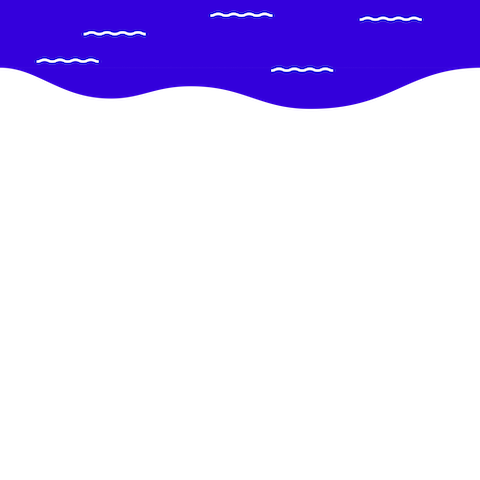
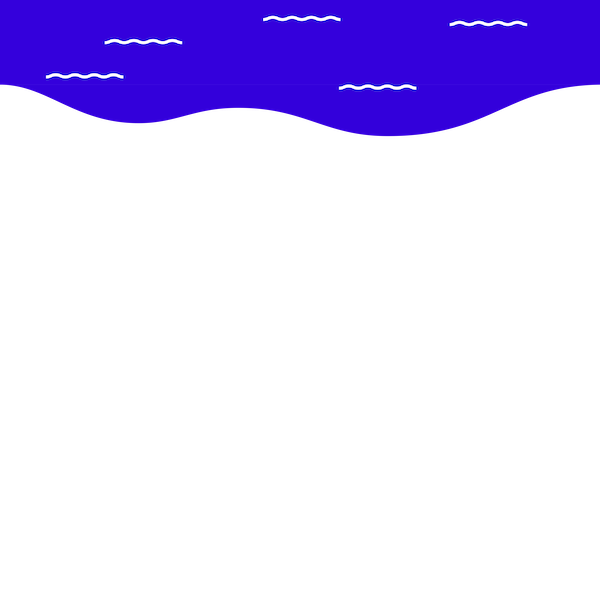
larger canvas

diff --git a/dist/main.js b/dist/main.js
@@ -1,2 +1,2 @@
-!function(t){var e={};function n(i){if(e[i])return e[i].exports;var s=e[i]={i:i,l:!1,exports:{}};return t[i].call(s.exports,s,s.exports,n),s.l=!0,s.exports}n.m=t,n.c=e,n.d=function(t,e,i){n.o(t,e)||Object.defineProperty(t,e,{enumerable:!0,get:i})},n.r=function(t){"undefined"!=typeof Symbol&&Symbol.toStringTag&&Object.defineProperty(t,Symbol.toStringTag,{value:"Module"}),Object.defineProperty(t,"__esModule",{value:!0})},n.t=function(t,e){if(1&e&&(t=n(t)),8&e)return t;if(4&e&&"object"==typeof t&&t&&t.__esModule)return t;var i=Object.create(null);if(n.r(i),Object.defineProperty(i,"default",{enumerable:!0,value:t}),2&e&&"string"!=typeof t)for(var s in t)n.d(i,s,function(e){return t[e]}.bind(null,s));return i},n.n=function(t){var e=t&&t.__esModule?function(){return t.default}:function(){return t};return n.d(e,"a",e),e},n.o=function(t,e){return Object.prototype.hasOwnProperty.call(t,e)},n.p="/dist/",n(n.s=2)}([function(t,e,n){},function(t,e,n){},function(t,e,n){"use strict";function i(t,e){for(var n=0;n<e.length;n++){var i=e[n];i.enumerable=i.enumerable||!1,i.configurable=!0,"value"in i&&(i.writable=!0),Object.defineProperty(t,i.key,i)}}n.r(e);var s=function(){function t(e,n){!function(t,e){if(!(t instanceof e))throw new TypeError("Cannot call a class as a function")}(this,t),this.ctx=e,this.canvas=n,this.pos=300,this.posX=100,this.draw=this.draw.bind(this),this.al=new Image,this.al.src="./src/images/al-web.png",this.alLife=new Image(30,30),this.alLife.src="./src/images/al-web.png",this.speed=0,this.speedX=0,this.maxHeight=100,this.minHeight=440,this.handleDown=this.handleDown.bind(this),this.keyUp=this.keyUp.bind(this),document.addEventListener("keydown",this.handleDown),document.addEventListener("touchstart",this.handleDown,{passive:!1}),document.addEventListener("keyup",this.keyUp),document.addEventListener("touchend",this.keyUp)}var e,n,s;return e=t,(n=[{key:"handleDown",value:function(t){var e;38!==(e="touchstart"===t.type?this.getTouchPos(this.canvas,t):t.keyCode)&&40!==e&&37!==e&&39!==e||(t.preventDefault(),this.move(e))}},{key:"keyUp",value:function(){this.al.src="./src/images/al-web.png",this.speed=0,this.speedX=0}},{key:"getTouchPos",value:function(t,e){var n=t.getBoundingClientRect();return e.targetTouches[0].clientX,n.left,e.targetTouches[0].clientY-n.top>this.pos?40:38}},{key:"draw",value:function(t,e){var n=this.pos===this.maxHeight&&-5===this.speed,i=this.pos===this.minHeight&&5===this.speed;n||i||(this.pos+=this.speed),this.ctx.drawImage(this.al,this.posX,this.pos),this.posX+=this.speedX;for(var s=0;s<e;s++)this.ctx.drawImage(this.alLife,25*(s+1)-15,50,20,12)}},{key:"move",value:function(t){switch(t){case 40:this.al.src="./src/images/al-down.png",this.speed=5;break;case 38:this.al.src="./src/images/al-up.png",this.speed=-5;break;case 37:this.al.src="./src/images/al-left.png",this.speedX=-5;break;case 39:this.al.src="./src/images/al-web.png",this.speedX=5}}}])&&i(e.prototype,n),s&&i(e,s),t}();function a(t,e){for(var n=0;n<e.length;n++){var i=e[n];i.enumerable=i.enumerable||!1,i.configurable=!0,"value"in i&&(i.writable=!0),Object.defineProperty(t,i.key,i)}}var r=function(){function t(){!function(t,e){if(!(t instanceof e))throw new TypeError("Cannot call a class as a function")}(this,t),this.posX=800,this.img=new Image,this.y=Math.floor(350*Math.random())+100,this.hit=!1}var e,n,i;return e=t,(n=[{key:"draw",value:function(t,e){t.drawImage(this.img,this.posX-=e,this.y)}},{key:"drawOne",value:function(t,e,n,i){var s=new Image;s.src="./src/images/".concat(i,".png"),s.addEventListener("load",(function(){t.drawImage(s,e,n)}))}}])&&a(e.prototype,n),i&&a(e,i),t}();function o(t){return(o="function"==typeof Symbol&&"symbol"==typeof Symbol.iterator?function(t){return typeof t}:function(t){return t&&"function"==typeof Symbol&&t.constructor===Symbol&&t!==Symbol.prototype?"symbol":typeof t})(t)}function c(t,e){return!e||"object"!==o(e)&&"function"!=typeof e?function(t){if(void 0===t)throw new ReferenceError("this hasn't been initialised - super() hasn't been called");return t}(t):e}function h(t){return(h=Object.setPrototypeOf?Object.getPrototypeOf:function(t){return t.__proto__||Object.getPrototypeOf(t)})(t)}function l(t,e){return(l=Object.setPrototypeOf||function(t,e){return t.__proto__=e,t})(t,e)}var u=["seal","fire-pit","person"],d=function(t){function e(){var t;!function(t,e){if(!(t instanceof e))throw new TypeError("Cannot call a class as a function")}(this,e),t=c(this,h(e).call(this));var n=Math.floor(Math.random()*u.length);return t.type=u[n],t.img.src="./src/images/".concat(t.type,".png"),t}return function(t,e){if("function"!=typeof e&&null!==e)throw new TypeError("Super expression must either be null or a function");t.prototype=Object.create(e&&e.prototype,{constructor:{value:t,writable:!0,configurable:!0}}),e&&l(t,e)}(e,t),e}(r);function f(t){return(f="function"==typeof Symbol&&"symbol"==typeof Symbol.iterator?function(t){return typeof t}:function(t){return t&&"function"==typeof Symbol&&t.constructor===Symbol&&t!==Symbol.prototype?"symbol":typeof t})(t)}function p(t,e){return!e||"object"!==f(e)&&"function"!=typeof e?function(t){if(void 0===t)throw new ReferenceError("this hasn't been initialised - super() hasn't been called");return t}(t):e}function v(t){return(v=Object.setPrototypeOf?Object.getPrototypeOf:function(t){return t.__proto__||Object.getPrototypeOf(t)})(t)}function y(t,e){return(y=Object.setPrototypeOf||function(t,e){return t.__proto__=e,t})(t,e)}var b=["bottle","bag","beach-ball"],g=function(t){function e(){var t;!function(t,e){if(!(t instanceof e))throw new TypeError("Cannot call a class as a function")}(this,e),t=p(this,v(e).call(this));var n=Math.floor(Math.random()*b.length);return t.type=b[n],t.img.src="./src/images/".concat(t.type,".png"),t}return function(t,e){if("function"!=typeof e&&null!==e)throw new TypeError("Super expression must either be null or a function");t.prototype=Object.create(e&&e.prototype,{constructor:{value:t,writable:!0,configurable:!0}}),e&&y(t,e)}(e,t),e}(r);function w(t,e){for(var n=0;n<e.length;n++){var i=e[n];i.enumerable=i.enumerable||!1,i.configurable=!0,"value"in i&&(i.writable=!0),Object.defineProperty(t,i.key,i)}}var m=function(){function t(e,n){!function(t,e){if(!(t instanceof e))throw new TypeError("Cannot call a class as a function")}(this,t),this.cnvs=e,this.ctx=n}var e,n,i;return e=t,(n=[{key:"draw",value:function(t){var e=this,n=new d,i=new d,s=new d,a=new g,r=new g,o=new g;setTimeout((function(){e.ctx.textAlign="center",e.ctx.fillStyle="#3400cd",e.ctx.font="30px Arial",e.ctx.beginPath(),e.ctx.rect(e.cnvs.width/2-50,140,100,40),e.ctx.strokeRect(e.cnvs.width/2-50,140,100,40),e.ctx.fillRect(e.cnvs.width/2-50,140,100,40),e.ctx.stroke(),e.ctx.fillStyle="#ffdc93",e.ctx.fillText("Start!",e.cnvs.width/2,170),e.ctx.fillStyle="#3400cd",e.ctx.font="20px Arial",e.ctx.fillText("Use the up and down arrow keys to help",e.cnvs.width/2,250),e.ctx.fillText("the albatross avoid obstacles and tidy up the beach.",e.cnvs.width/2,280),e.ctx.fillText("AVOID",225,340),n.drawOne(e.ctx,170,350,"seal"),i.drawOne(e.ctx,210,350,"fire-pit"),s.drawOne(e.ctx,250,350,"person"),e.ctx.fillText("COLLECT",575,340),a.drawOne(e.ctx,520,350,"bottle"),r.drawOne(e.ctx,560,350,"bag"),o.drawOne(e.ctx,600,350,"beach-ball"),e.ctx.font="20px Arial",e.ctx.textAlign="center",e.ctx.fillText("By Shersheial Borisute",e.cnvs.width/2,450)}),500)}}])&&w(e.prototype,n),i&&w(e,i),t}();function x(t,e){for(var n=0;n<e.length;n++){var i=e[n];i.enumerable=i.enumerable||!1,i.configurable=!0,"value"in i&&(i.writable=!0),Object.defineProperty(t,i.key,i)}}var k=function(){function t(e,n,i){!function(t,e){if(!(t instanceof e))throw new TypeError("Cannot call a class as a function")}(this,t),this.bgPos=0,this.canvas=e,this.ctx=n,this.image=i,this.draw=this.draw.bind(this),this.startScreen=new m(this.canvas,this.ctx),this.started=!1}var e,n,i;return e=t,(n=[{key:"draw",value:function(t){var e=this,n=new Image(480,480);n.src="./src/images/".concat(this.image,".png"),n.addEventListener("load",(function(){e.ctx.clearRect(0,0,e.canvas.width,e.canvas.height);var i=e.ctx.createPattern(n,"repeat");e.ctx.fillStyle=i,e.ctx.translate(-e.bgPos,0),e.ctx.fillRect(e.bgPos,0,e.canvas.width,e.canvas.height),e.ctx.translate(e.bgPos,0),e.bgPos+=t,"water"===e.image&&e.started,"sand"!==e.image||e.started||(e.started=!0,e.startScreen.draw())}),!1)}},{key:"showTitle",value:function(){this.ctx.font="30px Arial",this.ctx.textAlign="center",this.ctx.fillStyle="#ffdc93",this.ctx.fillText("Tidy Albatross",this.canvas.width/2,30)}}])&&x(e.prototype,n),i&&x(e,i),t}();function O(t,e){for(var n=0;n<e.length;n++){var i=e[n];i.enumerable=i.enumerable||!1,i.configurable=!0,"value"in i&&(i.writable=!0),Object.defineProperty(t,i.key,i)}}var S=function(){function t(){!function(t,e){if(!(t instanceof e))throw new TypeError("Cannot call a class as a function")}(this,t),this.width=800,this.height=480,this.canvasSand=document.getElementById("canvas-sand"),this.canvasWater=document.getElementById("canvas-water"),this.canvasSand.width=800,this.canvasSand.height=480,this.canvasWater.width=800,this.canvasWater.height=480,this.ctxSand=this.canvasSand.getContext("2d"),this.ctxWater=this.canvasWater.getContext("2d"),this.backgroundWater=new k(this.canvasWater,this.ctxWater,"water"),this.backgroundSand=new k(this.canvasSand,this.ctxSand,"sand"),this.draw=this.draw.bind(this)}var e,n,i;return e=t,(n=[{key:"init",value:function(t){this.backgroundWater.started=!1,this.backgroundSand.started=!1,this.draw(t)}},{key:"draw",value:function(t){this.backgroundWater.draw(t),this.backgroundSand.draw(t)}}])&&O(e.prototype,n),i&&O(e,i),t}();function P(t,e){for(var n=0;n<e.length;n++){var i=e[n];i.enumerable=i.enumerable||!1,i.configurable=!0,"value"in i&&(i.writable=!0),Object.defineProperty(t,i.key,i)}}var T=function(){function t(e,n){!function(t,e){if(!(t instanceof e))throw new TypeError("Cannot call a class as a function")}(this,t),this.ctx=e,this.pos=n,this.db=firebase.firestore()}var e,n,i;return e=t,(n=[{key:"draw",value:function(){}},{key:"store",value:function(t,e){this.db.collection(t).add(e).then((function(t){console.log("Document written with ID: ",t.id)})).catch((function(t){console.error("Error adding document: ",t)}))}}])&&P(e.prototype,n),i&&P(e,i),t}();function E(t,e){for(var n=0;n<e.length;n++){var i=e[n];i.enumerable=i.enumerable||!1,i.configurable=!0,"value"in i&&(i.writable=!0),Object.defineProperty(t,i.key,i)}}var j=function(){function t(){!function(t,e){if(!(t instanceof e))throw new TypeError("Cannot call a class as a function")}(this,t),this.canvas=document.getElementById("canvas-game"),this.canvas.width=800,this.canvas.height=480,this.animFrame=null,this.ctx=this.canvas.getContext("2d"),this.trash=[],this.obstacles=[],this.albatross=new s(this.ctx,this.canvas),this.draw=this.draw.bind(this),this.beach=new S,this.addObstacle=this.addObstacle.bind(this),this.addTrash=this.addTrash.bind(this),this.handleStart=this.handleStart.bind(this),this.onVisibilityChange=this.onVisibilityChange.bind(this),this.ctx.font="30px Arial",this.score=0,this.totalPoints=0,this.gameIsActive=!1,this.lives=5,this.maxSpeed=9,this.timeout=120,this.counter=-1,this.speed=2,this.bird=new this.sound("./src/audio/bird.mp3"),this.gamePause=this.gamePause.bind(this),document.addEventListener("visibilitychange",this.onVisibilityChange),this.points=new T}var e,n,i;return e=t,(n=[{key:"init",value:function(){this.beach.init(this.speed),this.canvas.addEventListener("click",this.handleStart)}},{key:"handleStart",value:function(t){var e=this.getClickPos(this.canvas,t),n=e.x,i=e.y,s=this.canvas.width/2-50;n>=s&&n<=100+s&&i>=140&&i<=180&&(this.gameIsActive=!0,this.canvas.removeEventListener("click",this.handleStart),this.draw())}},{key:"getClickPos",value:function(t,e){var n=t.getBoundingClientRect();return{x:e.clientX-n.left,y:e.clientY-n.top}}},{key:"addObstacle",value:function(){this.obstacles=this.obstacles.concat(new d)}},{key:"addTrash",value:function(){this.trash=this.trash.concat(new g)}},{key:"onVisibilityChange",value:function(t){"hidden"===document.visibilityState?this.gamePause("hide"):this.gamePause("show")}},{key:"draw",value:function(){if(this.gameIsActive)if(0===this.lives)this.ctx.clearRect(0,0,this.canvas.width,this.canvas.height),cancelAnimationFrame(this.animFrame),this.gameOver();else{this.ctx.clearRect(0,0,this.canvas.width,this.canvas.height),this.beach.draw(this.speed);var t={x:this.albatross.posX,y:this.albatross.pos};this.counter===this.timeout&&(this.addObstacle(),this.addTrash(),this.counter=-1),this.counter=this.counter+1,this.detectObstacles(t),this.detectTrash(t),this.albatross.draw(this.speed,this.lives),this.ctx.fillStyle="white",this.ctx.fillText("Score: ".concat(this.score),10,40),this.animFrame=requestAnimationFrame(this.draw)}}},{key:"detectTrash",value:function(t){var e=this;this.trash.forEach((function(n,i){n.posX<-30&&delete e.trash[i],t.y-n.y<30&&t.y-n.y>-30&&n.posX-t.x<=60&&n.posX-t.x>=-5?(e.score=e.score+1,e.score%5==0&&e.speed<=e.maxSpeed&&(e.speed=e.speed+e.speed/4,e.speed>e.maxSpeed&&(e.timeout=90)),delete e.trash[i]):n.draw(e.ctx,e.speed)})),this.trash=this.trash.filter((function(t){return t}))}},{key:"detectObstacles",value:function(t){var e=this;this.obstacles.forEach((function(n,i){n.posX<-30&&delete e.obstacles[i],n.draw(e.ctx,e.speed),t.y-n.y<30&&t.y-n.y>-30&&n.posX-t.x<=60&&n.posX-t.x>=-5&&!n.hit&&(n.hit=!0,e.lives=e.lives-1,setTimeout((function(){e.bird.play()}),0))})),this.obstacles=this.obstacles.filter((function(t){return t}))}},{key:"gameOver",value:function(){this.gameIsActive=!1,this.points.store("score",{name:"Ada",score:this.score}),this.trash=[],this.obstacles=[],this.ctx.fillStyle="#3400cd",this.ctx.textAlign="center",this.ctx.fillText("game over :(",this.canvas.width/2,130),this.ctx.textAlign="left",this.score=0,this.speed=1.5,this.totalPoints=0,this.lives=5,this.init()}},{key:"gamePause",value:function(t){this.gameIsActive="hide"!==t}},{key:"sound",value:function(t){var e=this;this.sound=document.createElement("audio"),this.sound.src=t,this.sound.setAttribute("preload","auto"),this.sound.setAttribute("controls","none"),this.sound.style.display="none",document.body.appendChild(this.sound),this.play=function(){return e.sound.play()},this.stop=function(){return e.sound.pause()}}}])&&E(e.prototype,n),i&&E(e,i),t}();n(0),n(1);document.addEventListener("DOMContentLoaded",(function(){(new j).init()}))}]);
+!function(t){var e={};function n(i){if(e[i])return e[i].exports;var s=e[i]={i:i,l:!1,exports:{}};return t[i].call(s.exports,s,s.exports,n),s.l=!0,s.exports}n.m=t,n.c=e,n.d=function(t,e,i){n.o(t,e)||Object.defineProperty(t,e,{enumerable:!0,get:i})},n.r=function(t){"undefined"!=typeof Symbol&&Symbol.toStringTag&&Object.defineProperty(t,Symbol.toStringTag,{value:"Module"}),Object.defineProperty(t,"__esModule",{value:!0})},n.t=function(t,e){if(1&e&&(t=n(t)),8&e)return t;if(4&e&&"object"==typeof t&&t&&t.__esModule)return t;var i=Object.create(null);if(n.r(i),Object.defineProperty(i,"default",{enumerable:!0,value:t}),2&e&&"string"!=typeof t)for(var s in t)n.d(i,s,function(e){return t[e]}.bind(null,s));return i},n.n=function(t){var e=t&&t.__esModule?function(){return t.default}:function(){return t};return n.d(e,"a",e),e},n.o=function(t,e){return Object.prototype.hasOwnProperty.call(t,e)},n.p="/dist/",n(n.s=2)}([function(t,e,n){},function(t,e,n){},function(t,e,n){"use strict";function i(t,e){for(var n=0;n<e.length;n++){var i=e[n];i.enumerable=i.enumerable||!1,i.configurable=!0,"value"in i&&(i.writable=!0),Object.defineProperty(t,i.key,i)}}n.r(e);var s=function(){function t(e,n){!function(t,e){if(!(t instanceof e))throw new TypeError("Cannot call a class as a function")}(this,t),this.ctx=e,this.canvas=n,this.pos=300,this.posX=100,this.draw=this.draw.bind(this),this.al=new Image,this.al.src="./src/images/large/al-web.png",this.alLife=new Image(30,30),this.alLife.src="./src/images/large/al-web.png",this.speed=0,this.speedX=0,this.maxHeight=100,this.minHeight=550,this.handleDown=this.handleDown.bind(this),this.keyUp=this.keyUp.bind(this),document.addEventListener("keydown",this.handleDown),document.addEventListener("touchstart",this.handleDown,{passive:!1}),document.addEventListener("keyup",this.keyUp),document.addEventListener("touchend",this.keyUp)}var e,n,s;return e=t,(n=[{key:"handleDown",value:function(t){var e;38!==(e="touchstart"===t.type?this.getTouchPos(this.canvas,t):t.keyCode)&&40!==e&&37!==e&&39!==e||(t.preventDefault(),this.move(e))}},{key:"keyUp",value:function(){this.al.src="./src/images/large/al-web.png",this.speed=0,this.speedX=0}},{key:"getTouchPos",value:function(t,e){var n=t.getBoundingClientRect();return e.targetTouches[0].clientX,n.left,e.targetTouches[0].clientY-n.top>this.pos?40:38}},{key:"draw",value:function(t,e){var n=this.pos===this.maxHeight&&-5===this.speed,i=this.pos===this.minHeight&&5===this.speed;n||i||(this.pos+=this.speed),this.ctx.drawImage(this.al,this.posX,this.pos),this.posX+=this.speedX;for(var s=0;s<e;s++)this.ctx.drawImage(this.alLife,25*(s+1)-15,50,20,12)}},{key:"move",value:function(t){switch(t){case 40:this.al.src="./src/images/large/al-down.png",this.speed=5;break;case 38:this.al.src="./src/images/large/al-up.png",this.speed=-5;break;case 37:this.al.src="./src/images/large/al-left.png",this.speedX=-5;break;case 39:this.al.src="./src/images/large/al-web.png",this.speedX=5}}}])&&i(e.prototype,n),s&&i(e,s),t}();function a(t,e){for(var n=0;n<e.length;n++){var i=e[n];i.enumerable=i.enumerable||!1,i.configurable=!0,"value"in i&&(i.writable=!0),Object.defineProperty(t,i.key,i)}}var r=function(){function t(){!function(t,e){if(!(t instanceof e))throw new TypeError("Cannot call a class as a function")}(this,t),this.posX=1e3,this.img=new Image,this.y=Math.floor(460*Math.random())+100,this.hit=!1}var e,n,i;return e=t,(n=[{key:"draw",value:function(t,e){t.drawImage(this.img,this.posX-=e,this.y,40,40)}},{key:"drawOne",value:function(t,e,n,i){var s=new Image(30,30);s.src="./src/images/large/".concat(i,".png"),s.addEventListener("load",(function(){t.drawImage(s,e,n,40,40)}))}}])&&a(e.prototype,n),i&&a(e,i),t}();function o(t){return(o="function"==typeof Symbol&&"symbol"==typeof Symbol.iterator?function(t){return typeof t}:function(t){return t&&"function"==typeof Symbol&&t.constructor===Symbol&&t!==Symbol.prototype?"symbol":typeof t})(t)}function c(t,e){return!e||"object"!==o(e)&&"function"!=typeof e?function(t){if(void 0===t)throw new ReferenceError("this hasn't been initialised - super() hasn't been called");return t}(t):e}function h(t){return(h=Object.setPrototypeOf?Object.getPrototypeOf:function(t){return t.__proto__||Object.getPrototypeOf(t)})(t)}function l(t,e){return(l=Object.setPrototypeOf||function(t,e){return t.__proto__=e,t})(t,e)}var u=["seal","fire-pit","person"],d=function(t){function e(){var t;!function(t,e){if(!(t instanceof e))throw new TypeError("Cannot call a class as a function")}(this,e),t=c(this,h(e).call(this));var n=Math.floor(Math.random()*u.length);return t.type=u[n],t.img.src="./src/images/large/".concat(t.type,".png"),t}return function(t,e){if("function"!=typeof e&&null!==e)throw new TypeError("Super expression must either be null or a function");t.prototype=Object.create(e&&e.prototype,{constructor:{value:t,writable:!0,configurable:!0}}),e&&l(t,e)}(e,t),e}(r);function f(t){return(f="function"==typeof Symbol&&"symbol"==typeof Symbol.iterator?function(t){return typeof t}:function(t){return t&&"function"==typeof Symbol&&t.constructor===Symbol&&t!==Symbol.prototype?"symbol":typeof t})(t)}function p(t,e){return!e||"object"!==f(e)&&"function"!=typeof e?function(t){if(void 0===t)throw new ReferenceError("this hasn't been initialised - super() hasn't been called");return t}(t):e}function v(t){return(v=Object.setPrototypeOf?Object.getPrototypeOf:function(t){return t.__proto__||Object.getPrototypeOf(t)})(t)}function y(t,e){return(y=Object.setPrototypeOf||function(t,e){return t.__proto__=e,t})(t,e)}var b=["bottle","bag","beach-ball"],g=function(t){function e(){var t;!function(t,e){if(!(t instanceof e))throw new TypeError("Cannot call a class as a function")}(this,e),t=p(this,v(e).call(this));var n=Math.floor(Math.random()*b.length);return t.type=b[n],t.img.src="./src/images/large/".concat(t.type,".png"),t}return function(t,e){if("function"!=typeof e&&null!==e)throw new TypeError("Super expression must either be null or a function");t.prototype=Object.create(e&&e.prototype,{constructor:{value:t,writable:!0,configurable:!0}}),e&&y(t,e)}(e,t),e}(r);function w(t,e){for(var n=0;n<e.length;n++){var i=e[n];i.enumerable=i.enumerable||!1,i.configurable=!0,"value"in i&&(i.writable=!0),Object.defineProperty(t,i.key,i)}}var m=function(){function t(e,n){!function(t,e){if(!(t instanceof e))throw new TypeError("Cannot call a class as a function")}(this,t),this.cnvs=e,this.ctx=n}var e,n,i;return e=t,(n=[{key:"draw",value:function(t){var e=this,n=new d,i=new d,s=new d,a=new g,r=new g,o=new g;setTimeout((function(){e.ctx.textAlign="center",e.ctx.fillStyle="#3400cd",e.ctx.font="30px Arial",e.ctx.beginPath(),e.ctx.rect(e.cnvs.width/2-50,140,100,40),e.ctx.strokeRect(e.cnvs.width/2-50,140,100,40),e.ctx.fillRect(e.cnvs.width/2-50,140,100,40),e.ctx.stroke(),e.ctx.fillStyle="#ffdc93",e.ctx.fillText("Start!",e.cnvs.width/2,170),e.ctx.fillStyle="#3400cd",e.ctx.font="24px Arial",e.ctx.fillText("Use your arrow keys to help",e.cnvs.width/2,280),e.ctx.fillText("the albatross avoid obstacles",e.cnvs.width/2,310),e.ctx.fillText("and tidy up the beach.",e.cnvs.width/2,340),e.ctx.strokeStyle="#3400cd",e.ctx.strokeRect(200,400,150,80),e.ctx.fillStyle="#3400cd",e.ctx.font="bold 20px Arial",e.ctx.fillText("Avoid",274,424),n.drawOne(e.ctx,210,434,"seal"),i.drawOne(e.ctx,255,434,"fire-pit"),s.drawOne(e.ctx,300,434,"person"),e.ctx.strokeStyle="#3400cd",e.ctx.strokeRect(660,400,150,80),e.ctx.fillStyle="#3400cd",e.ctx.font="bold 20px Arial",e.ctx.fillText("Collect",734,424),a.drawOne(e.ctx,670,434,"bottle"),r.drawOne(e.ctx,715,434,"bag"),o.drawOne(e.ctx,760,434,"beach-ball")}),500)}}])&&w(e.prototype,n),i&&w(e,i),t}();function x(t,e){for(var n=0;n<e.length;n++){var i=e[n];i.enumerable=i.enumerable||!1,i.configurable=!0,"value"in i&&(i.writable=!0),Object.defineProperty(t,i.key,i)}}var k=function(){function t(e,n,i){!function(t,e){if(!(t instanceof e))throw new TypeError("Cannot call a class as a function")}(this,t),this.bgPos=0,this.canvas=e,this.ctx=n,this.image=i,this.draw=this.draw.bind(this),this.startScreen=new m(this.canvas,this.ctx),this.started=!1}var e,n,i;return e=t,(n=[{key:"draw",value:function(t){var e=this,n=new Image(600,600);n.src="./src/images/".concat(this.image,".png"),n.addEventListener("load",(function(){e.ctx.clearRect(0,0,e.canvas.width,e.canvas.height);var i=e.ctx.createPattern(n,"repeat");e.ctx.fillStyle=i,e.ctx.translate(-e.bgPos,0),e.ctx.fillRect(e.bgPos,0,e.canvas.width,e.canvas.height),e.ctx.translate(e.bgPos,0),e.bgPos+=t,"water"===e.image&&e.started,"sand"!==e.image||e.started||(e.started=!0,e.startScreen.draw())}),!1)}},{key:"showTitle",value:function(){this.ctx.font="30px Arial",this.ctx.textAlign="center",this.ctx.fillStyle="#ffdc93",this.ctx.fillText("Tidy Albatross",this.canvas.width/2,30)}}])&&x(e.prototype,n),i&&x(e,i),t}();function S(t,e){for(var n=0;n<e.length;n++){var i=e[n];i.enumerable=i.enumerable||!1,i.configurable=!0,"value"in i&&(i.writable=!0),Object.defineProperty(t,i.key,i)}}var O=function(){function t(){!function(t,e){if(!(t instanceof e))throw new TypeError("Cannot call a class as a function")}(this,t),this.width=1e3,this.height=600,this.canvasSand=document.getElementById("canvas-sand"),this.canvasWater=document.getElementById("canvas-water"),this.canvasSand.width=this.width,this.canvasSand.height=this.height,this.canvasWater.width=this.width,this.canvasWater.height=this.height,this.ctxSand=this.canvasSand.getContext("2d"),this.ctxWater=this.canvasWater.getContext("2d"),this.backgroundWater=new k(this.canvasWater,this.ctxWater,"water"),this.backgroundSand=new k(this.canvasSand,this.ctxSand,"sand"),this.draw=this.draw.bind(this)}var e,n,i;return e=t,(n=[{key:"init",value:function(t){this.backgroundWater.started=!1,this.backgroundSand.started=!1,this.draw(t)}},{key:"draw",value:function(t){this.backgroundWater.draw(t),this.backgroundSand.draw(t)}}])&&S(e.prototype,n),i&&S(e,i),t}();function P(t,e){for(var n=0;n<e.length;n++){var i=e[n];i.enumerable=i.enumerable||!1,i.configurable=!0,"value"in i&&(i.writable=!0),Object.defineProperty(t,i.key,i)}}var T=function(){function t(e,n){!function(t,e){if(!(t instanceof e))throw new TypeError("Cannot call a class as a function")}(this,t),this.ctx=e,this.pos=n,this.db=firebase.firestore()}var e,n,i;return e=t,(n=[{key:"draw",value:function(){}},{key:"store",value:function(t,e){this.db.collection(t).add(e).then((function(t){console.log("Document written with ID: ",t.id)})).catch((function(t){console.error("Error adding document: ",t)}))}}])&&P(e.prototype,n),i&&P(e,i),t}();function E(t,e){for(var n=0;n<e.length;n++){var i=e[n];i.enumerable=i.enumerable||!1,i.configurable=!0,"value"in i&&(i.writable=!0),Object.defineProperty(t,i.key,i)}}var j=function(){function t(){!function(t,e){if(!(t instanceof e))throw new TypeError("Cannot call a class as a function")}(this,t),this.canvas=document.getElementById("canvas-game"),this.canvas.width=1e3,this.canvas.height=600,this.animFrame=null,this.ctx=this.canvas.getContext("2d"),this.trash=[],this.obstacles=[],this.albatross=new s(this.ctx,this.canvas),this.draw=this.draw.bind(this),this.beach=new O,this.addObstacle=this.addObstacle.bind(this),this.addTrash=this.addTrash.bind(this),this.handleStart=this.handleStart.bind(this),this.onVisibilityChange=this.onVisibilityChange.bind(this),this.ctx.font="30px Arial",this.score=0,this.totalPoints=0,this.gameIsActive=!1,this.lives=5,this.maxSpeed=9,this.timeout=120,this.counter=-1,this.speed=2,this.bird=new this.sound("./src/audio/bird.mp3"),this.gamePause=this.gamePause.bind(this),document.addEventListener("visibilitychange",this.onVisibilityChange),this.points=new T}var e,n,i;return e=t,(n=[{key:"init",value:function(){this.beach.init(this.speed),this.canvas.addEventListener("click",this.handleStart)}},{key:"handleStart",value:function(t){var e=this.getClickPos(this.canvas,t),n=e.x,i=e.y,s=this.canvas.width/2-50;n>=s&&n<=100+s&&i>=140&&i<=180&&(this.gameIsActive=!0,this.canvas.removeEventListener("click",this.handleStart),this.draw())}},{key:"getClickPos",value:function(t,e){var n=t.getBoundingClientRect();return{x:e.clientX-n.left,y:e.clientY-n.top}}},{key:"addObstacle",value:function(){this.obstacles=this.obstacles.concat(new d)}},{key:"addTrash",value:function(){this.trash=this.trash.concat(new g)}},{key:"onVisibilityChange",value:function(t){"hidden"===document.visibilityState?this.gamePause("hide"):this.gamePause("show")}},{key:"draw",value:function(){if(this.gameIsActive)if(0===this.lives)this.ctx.clearRect(0,0,this.canvas.width,this.canvas.height),cancelAnimationFrame(this.animFrame),this.gameOver();else{this.ctx.clearRect(0,0,this.canvas.width,this.canvas.height),this.beach.draw(this.speed);var t={x:this.albatross.posX,y:this.albatross.pos};this.counter===this.timeout&&(this.addObstacle(),this.addTrash(),this.counter=-1),this.counter=this.counter+1,this.detectObstacles(t),this.detectTrash(t),this.albatross.draw(this.speed,this.lives),this.ctx.fillStyle="white",this.ctx.fillText("Score: ".concat(this.score),10,40),this.animFrame=requestAnimationFrame(this.draw)}}},{key:"detectTrash",value:function(t){var e=this;this.trash.forEach((function(n,i){n.posX<-30&&delete e.trash[i],t.y-n.y<30&&t.y-n.y>-30&&n.posX-t.x<=60&&n.posX-t.x>=-5?(e.score=e.score+1,e.score%5==0&&e.speed<=e.maxSpeed&&(e.speed=e.speed+e.speed/4,e.speed>e.maxSpeed&&(e.timeout=90)),delete e.trash[i]):n.draw(e.ctx,e.speed)})),this.trash=this.trash.filter((function(t){return t}))}},{key:"detectObstacles",value:function(t){var e=this;this.obstacles.forEach((function(n,i){n.posX<-30&&delete e.obstacles[i],n.draw(e.ctx,e.speed),t.y-n.y<30&&t.y-n.y>-30&&n.posX-t.x<=60&&n.posX-t.x>=-5&&!n.hit&&(n.hit=!0,e.lives=e.lives-1,setTimeout((function(){e.bird.play()}),0))})),this.obstacles=this.obstacles.filter((function(t){return t}))}},{key:"gameOver",value:function(){this.gameIsActive=!1,this.points.store("score",{name:"Ada",score:this.score}),this.trash=[],this.obstacles=[],this.ctx.fillStyle="#3400cd",this.ctx.textAlign="center",this.ctx.fillText("game over :(",this.canvas.width/2,130),this.ctx.textAlign="left",this.score=0,this.speed=1.5,this.totalPoints=0,this.lives=5,this.init()}},{key:"gamePause",value:function(t){this.gameIsActive="hide"!==t}},{key:"sound",value:function(t){var e=this;this.sound=document.createElement("audio"),this.sound.src=t,this.sound.setAttribute("preload","auto"),this.sound.setAttribute("controls","none"),this.sound.style.display="none",document.body.appendChild(this.sound),this.play=function(){return e.sound.play()},this.stop=function(){return e.sound.pause()}}}])&&E(e.prototype,n),i&&E(e,i),t}();n(0),n(1);document.addEventListener("DOMContentLoaded",(function(){(new j).init()}))}]);
 //# sourceMappingURL=main.js.map

diff --git a/src/scripts/start_screen.js b/src/scripts/start_screen.js
@@ -36,28 +36,37 @@ export default class StartScreen {
       this.ctx.fillText('Start!', this.cnvs.width / 2, 170);
 
       this.ctx.fillStyle = "#3400cd";
-      this.ctx.font = "20px Arial";
-      this.ctx.fillText('Use the up and down arrow keys to help', this.cnvs.width / 2, 250);
-      this.ctx.fillText('the albatross avoid obstacles and tidy up the beach.', this.cnvs.width / 2, 330 - 50);
+      this.ctx.font = "24px Arial";
+      this.ctx.fillText('Use your arrow keys to help', this.cnvs.width / 2, 280);
+      this.ctx.fillText('the albatross avoid obstacles', this.cnvs.width / 2, 310);
+      this.ctx.fillText('and tidy up the beach.', this.cnvs.width / 2, 340);
+
+
       // avoid
-      this.ctx.fillText('AVOID', 225, 390 - 50);
+      this.ctx.strokeStyle = "#3400cd";
+      this.ctx.strokeRect(200, 400, 150, 80);
+
+      this.ctx.fillStyle = "#3400cd";
+      this.ctx.font = "bold 20px Arial";
+      this.ctx.fillText('Avoid', 274, 424);
   
-      seal.drawOne(this.ctx, 170, 400 - 50, 'seal');
-      firePit.drawOne(this.ctx, 210, 400 - 50, 'fire-pit');
-      person.drawOne(this.ctx, 250, 400 - 50, 'person');
+      seal.drawOne(this.ctx, 210, 434, 'seal');
+      firePit.drawOne(this.ctx, 255, 434, 'fire-pit');
+      person.drawOne(this.ctx, 300, 434, 'person');
   
   
       // pick up
-      this.ctx.fillText('COLLECT', 575, 340);
+
+      this.ctx.strokeStyle = "#3400cd";
+      this.ctx.strokeRect(660, 400, 150, 80);
+
+      this.ctx.fillStyle = "#3400cd";
+      this.ctx.font = "bold 20px Arial";
+      this.ctx.fillText('Collect', 734, 424);
   
-      bottle.drawOne(this.ctx, 520, 350, 'bottle');
-      bag.drawOne(this.ctx, 560, 350, 'bag');
-      beachBall.drawOne(this.ctx, 600, 350, 'beach-ball');
-
-
-      this.ctx.font = "20px Arial";
-      this.ctx.textAlign = "center";
-      this.ctx.fillText('By Shersheial Borisute', this.cnvs.width / 2, 450);
+      bottle.drawOne(this.ctx, 670, 434, 'bottle');
+      bag.drawOne(this.ctx, 715, 434, 'bag');
+      beachBall.drawOne(this.ctx, 760, 434, 'beach-ball');
     }, 500)
 
   }

diff --git a/dist/main.css b/dist/main.css
@@ -1,6 +1,6 @@
 html,body,section,article,h1,h2,h3,h4,p,ul,strong,em,a{margin:0;border:0;padding:0;outline:0;box-sizing:inherit;font:inherit;text-decoration:inherit;text-align:inherit;color:inherit;background:transparent}
 
-html{background-color:#3400cd}html header{width:100%;display:flex;justify-content:space-around}html header h1{width:-webkit-fit-content;width:-moz-fit-content;width:fit-content;font-size:30px;margin:10px;color:#ffdc93}html header ul{display:flex;justify-content:space-between;list-style:none;z-index:100;margin:10px}html header ul a{color:white}html header ul a:visited{color:lightgray}html header ul a img{width:40px;height:40px;margin:5px}html header ul a img:hover{margin:3px;width:44px;height:44px}body{width:100vw;height:100vh}body section.game{position:relative;width:800px;margin:0 auto;min-height:480px}body section.game canvas{position:absolute}
+html{background-color:#3400cd}html header{width:100%;display:flex;justify-content:space-around}html header h1{width:-webkit-fit-content;width:-moz-fit-content;width:fit-content;font-size:30px;margin:10px;color:#ffdc93}html header ul{display:flex;justify-content:space-between;list-style:none;z-index:100;margin:10px}html header ul a{color:white}html header ul a:visited{color:lightgray}html header ul a img{width:40px;height:40px;margin:5px}html header ul a img:hover{margin:3px;width:44px;height:44px}html footer{color:#ffdc93;width:-webkit-fit-content;width:-moz-fit-content;width:fit-content;margin:20px auto}body{width:100vw;height:100vh}body section.game{position:relative;width:1000px;margin:0 auto;min-height:600px;max-width:100vw}body section.game canvas{position:absolute;max-width:100vw;border:2px solid white;box-sizing:border-box}
 
 
 /*# sourceMappingURL=main.css.map*/

diff --git a/src/scripts/Albatross.js b/src/scripts/Albatross.js
@@ -6,13 +6,13 @@ export default class Albatross {
     this.posX = 100;
     this.draw = this.draw.bind(this);
     this.al = new Image();
-    this.al.src = './src/images/al-web.png';
+    this.al.src = './src/images/large/al-web.png';
     this.alLife = new Image(30, 30);
-    this.alLife.src = './src/images/al-web.png';
+    this.alLife.src = './src/images/large/al-web.png';
     this.speed = 0;
     this.speedX = 0;
     this.maxHeight = 100;
-    this.minHeight = 440;
+    this.minHeight = 550;
     this.handleDown = this.handleDown.bind(this);
 
     this.keyUp = this.keyUp.bind(this);
@@ -37,7 +37,7 @@ export default class Albatross {
   }
   
   keyUp() {
-    this.al.src = './src/images/al-web.png';
+    this.al.src = './src/images/large/al-web.png';
     this.speed = 0;
     this.speedX = 0;
   }
@@ -72,22 +72,22 @@ export default class Albatross {
   move(key) {
     switch (key) {
       case 40: // down
-        this.al.src = './src/images/al-down.png';
+        this.al.src = './src/images/large/al-down.png';
         this.speed = 5;
         break;
 
       case 38: // up
-        this.al.src = './src/images/al-up.png';
+        this.al.src = './src/images/large/al-up.png';
         this.speed = -5;
         break;
 
       case 37: // left
-        this.al.src = './src/images/al-left.png';
+        this.al.src = './src/images/large/al-left.png';
         this.speedX = -5;
         break;
 
       case 39: // right
-        this.al.src = './src/images/al-web.png';
+        this.al.src = './src/images/large/al-web.png';
         this.speedX = 5;
         break;
 

diff --git a/src/scripts/Beach.js b/src/scripts/Beach.js
@@ -2,15 +2,15 @@ import Background from './background';
 
 export default class Beach {
   constructor() {
-    this.width = 800;
-    this.height = 480;
+    this.width = 1000;
+    this.height = 600;
 
     this.canvasSand = document.getElementById("canvas-sand");
     this.canvasWater = document.getElementById("canvas-water");
-    this.canvasSand.width = 800;
-    this.canvasSand.height = 480;
-    this.canvasWater.width = 800;
-    this.canvasWater.height = 480;
+    this.canvasSand.width = this.width;
+    this.canvasSand.height = this.height;
+    this.canvasWater.width = this.width;
+    this.canvasWater.height = this.height;
     this.ctxSand = this.canvasSand.getContext("2d");
     this.ctxWater = this.canvasWater.getContext("2d");
     this.backgroundWater = new Background(this.canvasWater, this.ctxWater, 'water')

diff --git a/src/scripts/stuff.js b/src/scripts/stuff.js
@@ -2,21 +2,21 @@
 
 export default class Stuff {
   constructor() {
-    this.posX = 800;
+    this.posX = 1000;
     this.img = new Image();
-    this.y = Math.floor(Math.random() * 350) + 100;
+    this.y = Math.floor(Math.random() * 460) + 100;
     this.hit = false;
   }
 
   draw(context, speed) {
-    context.drawImage(this.img, this.posX -= speed, this.y);
+    context.drawImage(this.img, this.posX -= speed, this.y, 40, 40);
   }
 
   drawOne(context, posX, posY, image) {
-    const img = new Image();
-    img.src = `./src/images/${image}.png`;
+    const img = new Image(30, 30);
+    img.src = `./src/images/large/${image}.png`;
     img.addEventListener('load', () => {
-      context.drawImage(img, posX, posY);
+      context.drawImage(img, posX, posY, 40, 40);
     });
   }
 

diff --git a/src/styles/index.scss b/src/styles/index.scss
@@ -44,7 +44,9 @@ html {
   
     
   footer {
-  
+    color: #ffdc93;
+    width: fit-content;
+    margin: 20px auto;
   }
 }
 
@@ -54,25 +56,16 @@ body {
   
   section.game {
     position: relative;
-    width: 800px;
+    width: 1000px;
     margin: 0 auto;
-    min-height: 480px;
+    min-height: 600px;
+    max-width: 100vw;
 
     canvas {
       position: absolute;
+      max-width: 100vw;
+      border: 2px solid white;
+      box-sizing: border-box;
     }
   }
-  /*canvas {
-    z-index: 99;
-    width: 100vw; 
-    height: 60vw;
-    max-height: 100vh;
-    max-width: 166.66vh;
-    margin: auto;
-    position: absolute;
-    top:0;bottom:0;
-    left:0;right:0;
-    box-sizing: border-box;
-    border: 5px solid black ;
-  }*/
 }

diff --git a/index.html b/index.html
@@ -5,6 +5,7 @@
   <meta name="viewport" content="width=device-width, initial-scale=1.0">
   <link rel="stylesheet" href="./dist/main.css" />
   <title>Tidy Albatross</title>
+  <link rel="icon" href="./src/images/favicon.png" type="image/x-icon" />
 </head>
 <body>
   <header>
@@ -29,11 +30,9 @@
     <canvas id="canvas-game">
     </canvas>
   </section>
-  <!-- <footer> 
+  <footer> 
     By Shersheial Borisute
-    <br>
-    social icons: <a href="https://github.com/konsav/social-icons">github.com/konsav/social-icons</a>
-  </footer> -->
+  </footer>
   <!-- The core Firebase JS SDK is always required and must be listed first -->
   <script src="https://www.gstatic.com/firebasejs/7.10.0/firebase-app.js"></script>
   

diff --git a/src/scripts/Background.js b/src/scripts/Background.js
@@ -14,7 +14,7 @@ export default class Background {
   }
 
   draw(speed) {
-    let beachImage = new Image(480, 480);
+    let beachImage = new Image(600, 600);
     beachImage.src = `./src/images/${this.image}.png`;
     beachImage.addEventListener('load', () => {
       this.ctx.clearRect(0, 0, this.canvas.width, this.canvas.height);

diff --git a/src/scripts/Obstacle.js b/src/scripts/Obstacle.js
@@ -11,6 +11,6 @@ export default class Obstacle extends Stuff {
     super();
     const idx = Math.floor(Math.random() * OBSTACLES.length);
     this.type = OBSTACLES[idx];
-    this.img.src = `./src/images/${this.type}.png`;
+    this.img.src = `./src/images/large/${this.type}.png`;
   }
 };

diff --git a/src/scripts/Trash.js b/src/scripts/Trash.js
@@ -11,6 +11,6 @@ export default class Trash extends Stuff {
     super();
     const idx = Math.floor(Math.random() * TRASH.length);
     this.type = TRASH[idx];
-    this.img.src = `./src/images/${this.type}.png`;
+    this.img.src = `./src/images/large/${this.type}.png`;
   }
 };

diff --git a/src/scripts/Game.js b/src/scripts/Game.js
@@ -8,8 +8,8 @@ export default class Game {
   constructor() {
 
     this.canvas = document.getElementById("canvas-game");
-    this.canvas.width = 800;
-    this.canvas.height = 480;
+    this.canvas.width = 1000;
+    this.canvas.height = 600;
 
     this.animFrame = null;
 
